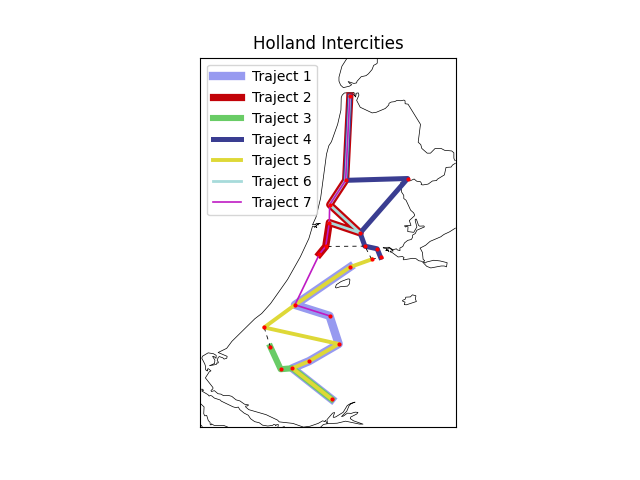
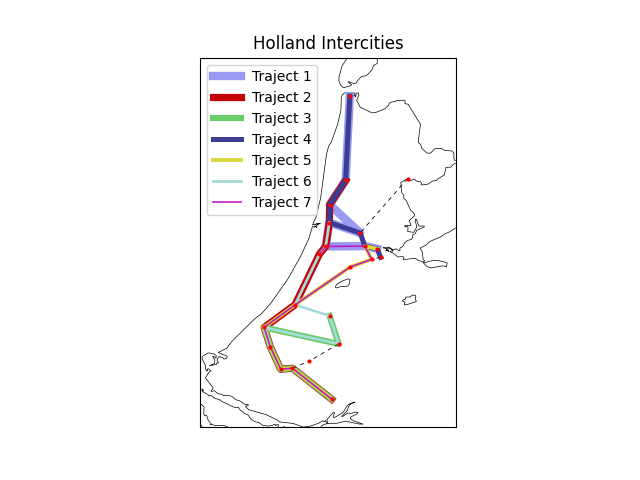
Greedy implemented

Changed region(s): [[0.4062, 0.1875, 0.6562, 0.8125], [0.5, 0.8125, 0.5312, 0.8438]]

diff --git a/code/algorithms/greedy.py b/code/algorithms/greedy.py
@@ -1,8 +1,78 @@
 import copy
+import random
 
 class Greedy:
-    def __init__(self, graph):
+    def __init__(self, graph, the_map):
         self.graph = copy.deepcopy(graph)
-    
+        self.map = the_map
+        self.MAX_LENGTH = 20 if the_map == "Nationaal" else 7
+        self.MAX_TIME = 180 if the_map == "Nationaal" else 120
+ 
     def run(self):
-        pass
+        unavailable_options = set()
+        stations_passed_list = []
+        # Keep adding routes until max amount is reached or all stations are connected
+        while not len(self.graph.routes) >= self.MAX_LENGTH and len(self.graph.get_visited_connections()) < len(self.graph.connections):
+
+            starting_station = self.get_best_starting_station(stations_passed_list)
+
+            self.graph.add_route(self.graph.stations[starting_station._name])
+
+            key = list(self.graph.routes.keys())[-1]
+            route = self.graph.routes[key]
+            while route.time < self.MAX_TIME:
+                for station in route.stations:
+                    unavailable_options.add(station._name)
+                # if len(route.stations) > 1:
+                #     unavailable_options.add(route.stations[-2]._name)
+
+                possibilities = route.get_possibilities(unavailable_options)
+                
+                if len(possibilities) == 0:
+                    unavailable_options = set()
+                    break
+
+                possibilities1 = []
+                for poss in possibilities:
+                    possibilities1.append(self.graph.stations[poss])
+
+                choice = self.get_best_station(possibilities1)
+
+                route.add_station(self.graph.stations[choice._name], route.stations[-1]._connections[choice._name])
+                if route.time > self.MAX_TIME:
+                    route.time -= route.stations[-2]._connections[choice._name]
+                    route.stations.pop()
+                    unavailable_options = set()
+                    break
+
+                unavailable_options = set()
+
+            # NOTE: pas toevoegen als route valid is (alle stations van route)
+            if not route.is_valid(self.map):
+                self.graph.routes.popitem()
+            elif route.is_valid(self.map):
+                self.graph.count_visited_connections(route.connections)
+                stations_passed_list.append(starting_station)
+
+    def get_best_station(self, possibilities):
+        possibilities.sort(key=lambda station: len(station._connections))
+
+        return possibilities[0]
+
+    def get_best_starting_station(self, stations_list):
+        stations = list(self.graph.stations.values())
+        
+        if len(stations_list) > 0:
+            for st in stations_list:
+                stations.remove(st)
+
+        stations.sort(key=lambda station: len(station._connections))
+
+        return stations.pop(0)
+
+
+class RandomGreedy(Greedy):
+    def get_best_station(self, possibilities):
+        possibilities.sort(key=lambda station: len(station._connections))
+
+        return random.choice(possibilities)

diff --git a/main.py b/main.py
@@ -1,6 +1,7 @@
 import argparse
 import sys
 from xmlrpc.client import boolean
+from code.algorithms import greedy as gr
 from code.algorithms import randomize
 from code.classes.stations_graph import StationsGraph
 
@@ -13,34 +14,40 @@ def main(the_map, output_file, RUNS, vis):
 
     # Load data into the graph
     stations_graph = StationsGraph(f'data/Stations{the_map}.csv', f'data/Connecties{the_map}.csv')
+    
+    test_greedy_graph = gr.Greedy(stations_graph, the_map)
+    test_greedy_graph.run()
+
+    test_randomGreedy_graph = gr.RandomGreedy(stations_graph, the_map)
+    test_randomGreedy_graph.run()
 
     # Random solution
-    best_graph = None
-    best_score = 0
-    total_score = 0
-    for _ in range(RUNS):
-        random_graph = randomize.random_assignment(stations_graph, the_map)
-        if random_graph.calculate_score() > best_score:
-            best_graph = random_graph
-            best_score = random_graph.calculate_score()
-        total_score += random_graph.calculate_score()
-    average_score = total_score / RUNS
-    
-    print(f"Random algorithm completed successfully with a score of {best_graph.calculate_score()}.")
+    # best_graph = None
+    # best_score = 0
+    # total_score = 0
+    # for _ in range(RUNS):
+    #     random_graph = randomize.random_assignment(stations_graph, the_map)
+    #     if random_graph.calculate_score() > best_score:
+    #         best_graph = random_graph
+    #         best_score = random_graph.calculate_score()
+    #     total_score += random_graph.calculate_score()
+    # average_score = total_score / RUNS
+
+    # print(f"Random algorithm completed successfully with a score of {best_graph.calculate_score()}.")
 
     # Save graph to .csv file
-    generate_output(best_graph, output_file)
+    generate_output(test_randomGreedy_graph.graph, output_file)
     print(f"See '{output_file}' for generated routes.")
 
     # Output info to file for personal use
-    generate_personal_output(best_graph, average_score, RUNS)
+    # generate_personal_output(best_graph, average_score, RUNS)
 
     # Visualize results on map
     if vis:
         from visualization import visualization
         
         print("Loading visualization...")
-        visualization(the_map, best_graph)
+        visualization(the_map, test_randomGreedy_graph.graph)
         print(f"Done! See 'test_{the_map}.png' for visualization.")
 
 
